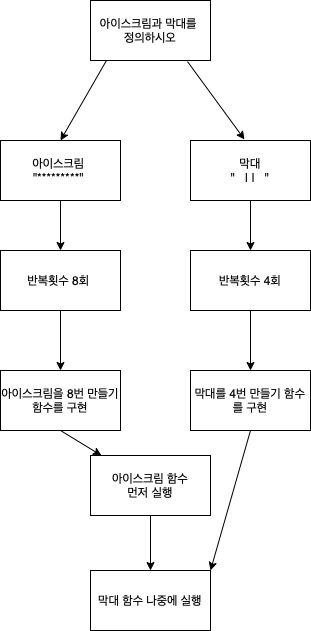
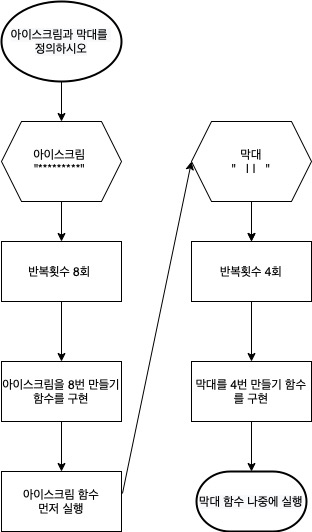
docs: 순서도 재수정

diff --git a/CodeStarterCamp_Week1/main.swift b/CodeStarterCamp_Week1/main.swift
@@ -11,18 +11,18 @@ import Foundation
 var iceBody = "***********"
 var stick = "    | |  "
 
-func toMakeIce() {
+func makeIceCream() {
   for _ in 1...8 {
     print(iceBody)
   }
 }
 
-func toMakeStick() {
+func makeStick() {
   for _ in 1...4 {
     print(stick)
   }
 }
 
-toMakeIce()
-toMakeStick()
+makeIceCream()
+makeStick()
 
